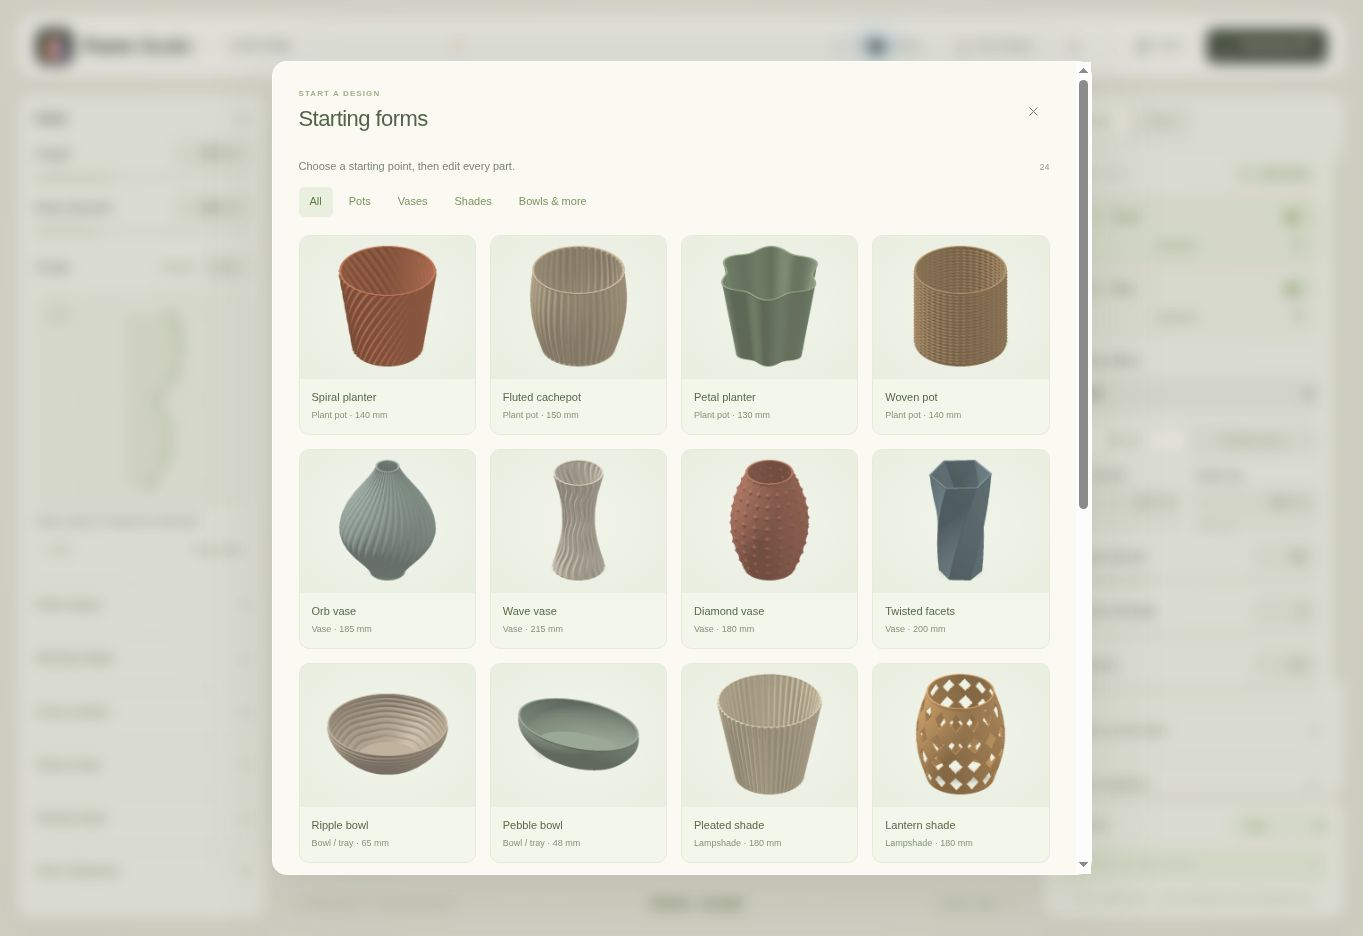
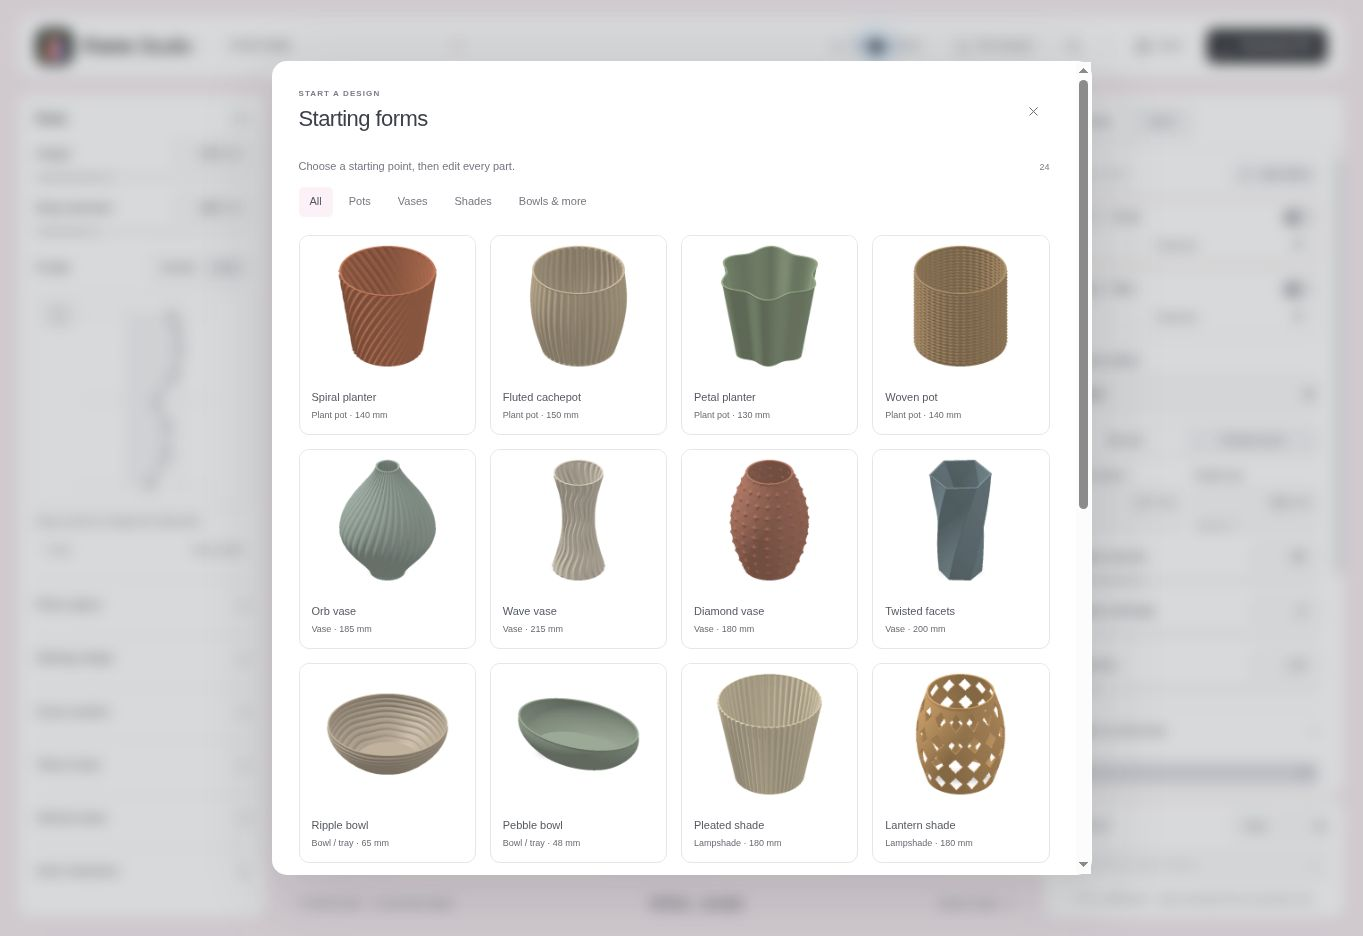
Theming update

diff --git a/static/theme-20261120-v3.css b/static/theme-20261120-v3.css
@@ -1,0 +1,243 @@
+/* Form Studio · clean interface · 2026-11-20 v3.
+ * A pale pink page surrounds white panels and neutral controls. Load after the
+ * original style.css; this file does not depend on an earlier theme overlay. */
+:root {
+  --bg: #f6edf2;
+  --panel: #ffffff;
+  --text: #303237;
+  --muted: #686b73;
+  --muted-2: #777a82;
+  --border: #e6e6e9;
+  --line: #ececef;
+  --accent: #b7829c;
+  --accent-soft: #fbf1f6;
+  --green: #777b82;
+  --danger: #a84d57;
+  --studio-field: #fafafa;
+  --studio-hover: #f3f3f5;
+  --studio-selected: #fbf1f6;
+  --studio-focus: #c38aa5;
+}
+
+body { background: var(--bg); color: var(--text); accent-color: #797d85; }
+button:focus-visible, a:focus-visible, input:focus-visible, select:focus-visible {
+  outline-color: var(--studio-focus);
+}
+::selection { background: #f0dce6; color: #303237; }
+.app-header {
+  background: #ffffff;
+  border-color: #ffffff;
+  box-shadow: 0 4px 14px #20232a05;
+}
+.floating-panel {
+  background: #ffffff;
+  border-color: #ffffff;
+  box-shadow: 0 5px 22px #20232a08;
+}
+.design-name { color: #595d65; }
+.design-name:hover, .design-name:focus { background: var(--studio-field); }
+.design-name:focus { box-shadow: 0 1px 0 #cdb4c1; }
+#dirty-indicator { background: #be8aa3; }
+.btn.quiet, .btn.icon-btn { color: #686b73; }
+.btn.quiet:hover, .btn.icon-btn:hover { background: var(--studio-hover); color: #303237; }
+.btn.primary { background: #303237; color: #ffffff; }
+.btn.primary:hover { background: #474b53; }
+.btn.secondary { background: #f3f3f5; color: #555961; }
+.btn.secondary:hover { background: #eaeaee; }
+.btn.active { background: var(--studio-selected); color: #4c4f57; }
+
+/* Neutral form, profile and effect controls. Only small selected states and
+ * focus rings carry a restrained pink accent. */
+.shape-scroll, .inspector-scroll { scrollbar-color: #d8d8dd transparent; }
+.eyebrow, .group-title, .effect-editor-title strong { color: #70737b; }
+.field-label { color: #5e626a; }
+.number-wrap { border-color: var(--border); background: var(--studio-field); }
+.number-wrap input { color: #484c54; }
+.number-wrap span { color: #777a82; }
+.range-input {
+  background: linear-gradient(to right, #a5a7ae 0%, #a5a7ae var(--range-progress,45%), #e8e8ec var(--range-progress,45%), #e8e8ec 100%);
+}
+.range-input::-webkit-slider-thumb { background: #ffffff; border-color: #8f929a; box-shadow: 0 0 0 2px #ffffff; }
+.range-input::-moz-range-thumb { background: #ffffff; border-color: #8f929a; }
+.select-input, .text-input { border-color: var(--border); background: var(--studio-field); }
+.select-input:focus, .text-input:focus { border-color: var(--studio-focus); }
+.field-help, .profile-editor-copy { color: #74777f; }
+.control-divider, .control-accordion { border-color: var(--line); }
+.control-accordion summary { color: #60646c; }
+.control-accordion summary:after { color: #878a92; }
+.segmented, .inspector-tabs { background: #f5f5f7; }
+.segmented button, .effect-mask-tabs button { color: #73767e; }
+.segmented button.active, .effect-mask-tabs button.active {
+  background: #ffffff;
+  color: #454951;
+  box-shadow: 0 1px 3px #20232a0c;
+}
+.profile-editor { background: #ffffff; border-color: var(--border); }
+.profile-axis-label, .profile-editor-copy { color: #777a82; }
+.profile-mini-actions .btn { color: #686b73; }
+.point-delete { color: #9699a1; }
+.point-delete:hover { background: var(--studio-hover); color: var(--danger); }
+.profile-height-number { background: #f5f5f7; color: #686b73; }
+#profile-curve path[stroke-dasharray] { stroke: #e3e3e8; }
+#profile-curve path[stroke="none"] { fill: #f5f5f7; }
+#profile-curve path[fill="none"] { stroke: #858992; }
+#profile-curve circle[data-point] { fill: #ffffff; stroke: #858992; }
+
+/* The transparent model canvas reveals only the pale pink page background.
+ * Model colours, material swatches and height gradients remain unchanged. */
+.stage-label, .connection-status { color: #686b73; }
+.connection-status>span:first-child, .local-dot, .status-dot { background: #93989b; }
+.connection-status.offline>span:first-child { background: #b98b61; }
+.history-controls .btn { color: #81858d; }
+.viewport-loading { color: #787c84; background: linear-gradient(#f6edf2bb, #f6edf200); }
+.spinner { border-color: #ddddE2; border-top-color: #858992; }
+.preview-detail-label { color: #73767e; background: #ffffff; border-color: #eeeeF1; }
+.preview-detail-label select { color: #60646c; }
+.camera-tools { background: #ffffff; border-color: #eeeeF1; }
+.camera-tools .btn { color: #858992; }
+.camera-tools .btn.active { background: var(--studio-selected); color: #555961; }
+.display-modes { background: #ffffff; box-shadow: 0 3px 10px #20232a08; }
+.display-modes>button { color: #747780; }
+.display-modes>button.active { background: #f5f5f7; color: #4b4f57; box-shadow: none; }
+.toolbar-separator { background: #e8e8ec; }
+.gradient-button>span { box-shadow: 0 0 0 1px #777a8224; }
+.color-palette { background: #ffffff; }
+.colour-swatch.active { outline-color: #92959e; }
+.view-hint { color: #686b73; }
+.model-summary, .summary-item { border-color: #dedee3; }
+.summary-item .eyebrow, .summary-item .small-muted { color: #747780; }
+.summary-item strong, .model-summary strong { color: #555961; }
+.summary-item strong.bed-status { color: #60666c; }
+.summary-item strong.bed-status.warning { color: #976442; }
+.stage-bottom { color: #686b73; }
+.text-btn { color: #666b73; }
+.text-btn:hover { color: #303237; }
+.inspector-heading { border-color: var(--line); }
+.inspector-heading .icon-btn { color: #858992; }
+.inspector-tabs button { color: #73777f; }
+.inspector-tabs button.active { background: #ffffff; color: #4c5058; box-shadow: 0 1px 3px #20232a0c; }
+.effects-heading>span { color: #737780; }
+.effects-heading .btn { background: #f6f6f8; color: #686b73; }
+.effect-card { border-color: var(--border); background: #ffffff; }
+.effect-card.active { border-color: #d8bbc9; background: #ffffff; }
+.effect-select { color: #5e626a; }
+.effect-select svg { stroke: #8b8e97; }
+.effect-number { color: #9699a2; }
+.effect-tools button { color: #73777f; }
+.effect-tools button:hover { background: #f3f3f5; color: #474b53; }
+.switch-input { background: #e0e1e5; }
+.switch-input:before { background: #ffffff; }
+.switch-input:checked { background: #999da6; }
+.effect-empty { border-color: #dcdce2; color: #80848d; }
+.height-band { background: #f5f5f7; border-color: #e5e5e9; }
+.height-band:before, .height-band:after { color: #6d727b; }
+.height-band>span { background: #dedee4; border-color: #babdc5; }
+.brush-controls { background: #ffffff; border-color: var(--border); }
+.brush-actions .btn.active { background: #555961; color: #ffffff; }
+.brush-note, .raster-preview>div { color: #73777f; }
+.raster-preview { background: #ffffff; }
+.raster-preview canvas { background: #fafafa; border-color: var(--border); }
+.raster-preview strong { color: #555961; }
+.raster-upload { border-color: #d8d9df; background: #ffffff; color: #686b73; }
+.raster-upload span { color: #81858d; }
+.raster-upload:hover { background: #fafafa; }
+.paint-toolbar { background: #ffffff; border-color: var(--border); box-shadow: 0 3px 15px #20232a0f; }
+.paint-toolbar>span { color: #737780; }
+.paint-toolbar .btn.active { background: var(--studio-selected); color: #555961; }
+.construction-note { background: #fafafa; border-color: var(--border); color: #73777f; }
+.construction-note.warning { background: #ffffff; border-color: #ead7cb; color: #95684e; }
+.quality-row { color: #73777f; }
+.quality-row select { border-color: var(--border); background: #fafafa; color: #60646c; }
+.library-btn { background: #f1f1f4; color: #555961; }
+.library-btn:hover { background: #e7e7ec; color: #303237; }
+.export-note { color: #7a7e86; }
+.size-warning { background: #ffffff; border-color: #ead7cb; color: #95684e; }
+.mesh-error { background: #ffffff; border-color: #e6c9ce; color: #a25562; }
+
+/* White dialogs and cards with graphite text. No panel is tinted or filtered. */
+.toast { color: #555961; background: #ffffff; border-color: var(--border); box-shadow: 0 6px 28px #20232a13; }
+.toast.error { background: #ffffff; border-color: #e6c9ce; color: #a25562; }
+.toast a { color: #555961; }
+.modal { background: #ffffff; box-shadow: 0 18px 75px #20232a26; }
+.modal::backdrop { background: #32343b30; }
+.modal-top h2 { color: #3c4048; }
+.modal-top .eyebrow { color: #7a7e86; }
+.category-filter button { color: #73777f; }
+.category-filter button.active { background: var(--studio-selected); color: #555961; }
+.category-filter button:hover { background: #f5f5f7; }
+.preset-card { background: #ffffff; border-color: var(--border); }
+.preset-card:hover { border-color: #cbcdd4; }
+.preset-card.active { border-color: #d2afc1; background: #ffffff; }
+.preset-art { background: #ffffff; }
+.preset-card .preset-check { stroke: #767b84; background: #ffffff; border-color: #dddde3; }
+.preset-card-name { color: #555961; }
+.preset-card-description { color: #686b73; }
+.saved-view-tabs { border-color: var(--line); }
+.saved-view-tabs button { color: #7a7e86; }
+.saved-view-tabs button.active { background: var(--studio-selected); color: #555961; }
+.saved-actions p, .settings-info p, .settings-modal .field-help { color: #73777f; }
+.saved-card { border-color: var(--border); background: #ffffff; }
+.saved-card-open:hover { background: #fafafa; }
+.saved-card strong { color: #555961; }
+.saved-card small { color: #7a7e86; }
+.saved-delete { background: #ffffff!important; }
+.empty-state { color: #7a7e86; }
+.empty-state strong { color: #555961; }
+.settings-modal .field-label { color: #60646c; }
+.settings-modal hr { border-color: var(--line); }
+.settings-info strong { color: #4c5058; }
+.display-settings h3 { color: #60646c; }
+.settings-inline>span { color: #7a7e86; }
+.confirm-modal p { color: #73777f; }
+.randomise-buttons { border-color: var(--border); background: #ffffff; box-shadow: 0 2px 7px #20232a05; }
+.randomise-buttons .btn { color: #5e626a; }
+.randomise-buttons .btn:hover { background: #f5f5f7; }
+.randomise-buttons .randomise-options-toggle { border-color: var(--border); }
+.randomise-options { background: #ffffff; border-color: var(--border); box-shadow: 0 8px 28px #20232a14; }
+.randomise-options .field-label, .randomise-size-lock { color: #60646c; }
+.randomise-size-lock input { accent-color: #797d85; }
+.randomise-options .field-help { color: #777b83; }
+.stage-github, .app-footer a, .studio-mobile-footer a {
+  color: #60656d;
+  text-decoration-color: #adb0b8;
+}
+.stage-github:hover, .app-footer a:hover, .studio-mobile-footer a:hover { color: #303237; text-decoration-color: currentColor; }
+.stage-github:focus-visible, .studio-mobile-footer a:focus-visible { outline-color: var(--studio-focus); }
+
+/* The link remains beside the preview on desktop. The companion v3 script
+ * moves it below the complete mobile workspace, including all export controls. */
+.studio-mobile-footer { display: none; }
+@media (max-width: 860px) {
+  .mobile-panel-nav {
+    background: #ffffff;
+    box-shadow: 0 3px 13px #20232a08;
+  }
+  .mobile-panel-nav button { color: #73777f; }
+  .mobile-panel-nav button.active { background: var(--studio-selected); color: #555961; }
+  .export-panel {
+    border-color: var(--border);
+    background: #ffffff;
+    box-shadow: 0 -3px 18px #20232a09;
+  }
+  .studio-mobile-footer {
+    display: flex;
+    align-items: center;
+    justify-content: center;
+    width: 100%;
+    padding: 14px 16px max(18px, env(safe-area-inset-bottom));
+    color: #60656d;
+  }
+  .studio-mobile-footer a {
+    display: inline-flex;
+    align-items: center;
+    justify-content: center;
+    min-height: 44px;
+    padding: 0 12px;
+    font-size: 12px;
+    font-weight: 550;
+    text-decoration: underline;
+    text-underline-offset: 4px;
+    border-radius: 5px;
+  }
+  .app-footer:empty { display: none; }
+}

diff --git a/static/theme-20261120-v3.js b/static/theme-20261120-v3.js
@@ -1,0 +1,38 @@
+/* Keep the author link below all mobile controls, without changing desktop
+ * alignment or coupling this appearance update to the editor's application JS. */
+(() => {
+  function installMobileFooter() {
+    const workspace = document.querySelector('.studio-layout');
+    const link = document.querySelector('.stage-github[href="https://github.com/ranolph"]')
+      || document.querySelector('.app-footer a[href="https://github.com/ranolph"]');
+    if (!workspace || !link || document.querySelector('[data-studio-mobile-footer]')) return;
+
+    const originalPosition = document.createComment('Form Studio desktop author link');
+    link.before(originalPosition);
+    const footer = document.createElement('footer');
+    footer.className = 'studio-mobile-footer';
+    footer.dataset.studioMobileFooter = '';
+    footer.setAttribute('aria-label', 'Project author');
+    footer.hidden = true;
+    workspace.after(footer);
+
+    const mobile = window.matchMedia('(max-width: 860px)');
+    function placeLink() {
+      if (mobile.matches) {
+        footer.append(link);
+        footer.hidden = false;
+      } else {
+        originalPosition.after(link);
+        footer.hidden = true;
+      }
+    }
+    placeLink();
+    mobile.addEventListener('change', placeLink);
+  }
+
+  if (document.readyState === 'loading') {
+    document.addEventListener('DOMContentLoaded', installMobileFooter, {once: true});
+  } else {
+    installMobileFooter();
+  }
+})();

diff --git a/static/index.html b/static/index.html
@@ -3,12 +3,14 @@
 <head>
   <meta charset="utf-8">
   <meta name="viewport" content="width=device-width, initial-scale=1, viewport-fit=cover">
-  <meta name="theme-color" content="#f3f1ed">
+  <meta name="theme-color" content="#f6edf2">
   <meta name="application-name" content="Form Studio">
   <meta name="description" content="A local parametric design studio for pots, vases, bowls and lampshades. Shape, texture and export your own printable objects.">
   <title>Form Studio</title>
   <link rel="icon" href="/icon.svg?v=20261119-brand" type="image/svg+xml">
   <link rel="stylesheet" href="/style.css?v=20261119-brand">
+  <link rel="stylesheet" href="/theme-20261120-v3.css">
+  <script defer src="/theme-20261120-v3.js"></script>
 </head>
 <body data-mobile-panel="shape">
   <svg class="icon-definitions" xmlns="http://www.w3.org/2000/svg" aria-hidden="true"><defs>

diff --git a/README.md b/README.md
@@ -18,6 +18,7 @@ Shape a vessel, layer patterns over its surface, paint where each effect appears
 - **Randomise:** generate a vase, plant pot, bowl, lampshade or desk pot; optionally keep the current height and body diameter. Generated designs stay fully editable.
 - **Print-oriented details:** hollow walls, closed or open bases, drainage or mounting holes, slots and diamond openings, millimetre dimensions and a configurable build-volume check.
 - **Clear previews:** orbit, zoom, section view, print-bed overlay, bright gradient or solid colours, visual layer lines and adjustable preview sharpness. A software renderer provides a fallback when WebGL is unavailable.
+- **A clean interface:** white panels and cards, neutral controls and graphite text on a pale pink page background. Small selected controls use a subtle pink accent. On mobile, the GitHub link sits below all design and export controls.
 - **Local persistence:** saved designs, recoverable trash, browser working drafts, Undo/Redo and portable `.form.json` recipes.
 - **Exports:** binary STL at three detail levels and an optional direct connection to Layer Library.
 
@@ -25,17 +26,27 @@ There are no cloud accounts, external fonts or runtime CDN dependencies. Three.j
 
 ## Screenshots
 
+### Clean interface — 2026-11-20 v3
+
+The page keeps its pale pink background, while the header, main panels, menus, dialogs and cards are white. Controls use neutral borders and text; the primary actions are graphite. Model colours remain independent of the interface theme.
+
 ### Design workspace
 
-![Form Studio workspace with a 3D vase preview, form controls, surface effects and the GitHub footer link](docs/screenshots/form-studio-workspace.jpg)
+![Form Studio with white control panels, neutral buttons and a 3D vase on a pale pink background](docs/screenshots/form-studio-workspace.jpg)
 
 Shape a vessel, edit layered effects and inspect the live 3D preview.
 
 ### Starting forms
 
-![Form Studio's Starting forms gallery with editable pots, vases, bowls and lampshades](docs/screenshots/form-studio-starting-forms.jpg)
+![Form Studio's white Starting forms gallery with editable pots, vases, bowls and lampshades](docs/screenshots/form-studio-starting-forms.jpg)
 
 Choose a starting design, then adjust its form, surface and print details.
+
+### Mobile controls and footer
+
+<img src="docs/screenshots/form-studio-mobile.jpg" width="390" alt="Form Studio on mobile with white panels, neutral design controls and the GitHub link below the export controls">
+
+Switch between Form, Surface and Build, then scroll past the export controls to reach the GitHub link at the bottom of the page.
 
 ## Hardware compatibility
 

diff --git a/CHANGELOG.md b/CHANGELOG.md
@@ -1,5 +1,20 @@
 # Changelog
 
+## Clean interface — 2026-11-20 v3
+
+- Kept a pale pink outer page background and changed the header, main panels,
+  dialogs, menus, effect cards and gallery cards to pure white.
+- Made buttons, fields, borders and text neutral, with graphite primary actions
+  and subtle pink accents limited to small selected controls and focus states.
+- Kept model colours, geometry, exports, saved designs and desktop panel spacing
+  unchanged.
+- Moved the GitHub author link below the complete workspace on mobile, after
+  the Form/Surface/Build controls and export panel; it remains beside the preview
+  on desktop and moves correctly when resizing between layouts.
+- Refreshed README screenshots to show the updated desktop and mobile styling.
+- Kept this update in two additive static assets so existing installations can
+  adopt the appearance without replacing their editor or renderer scripts.
+
 ## 1.2.0 — Public source package — 2026-11-18
 
 - Prepared a standalone repository with source, bundled viewer, 24 rendered
